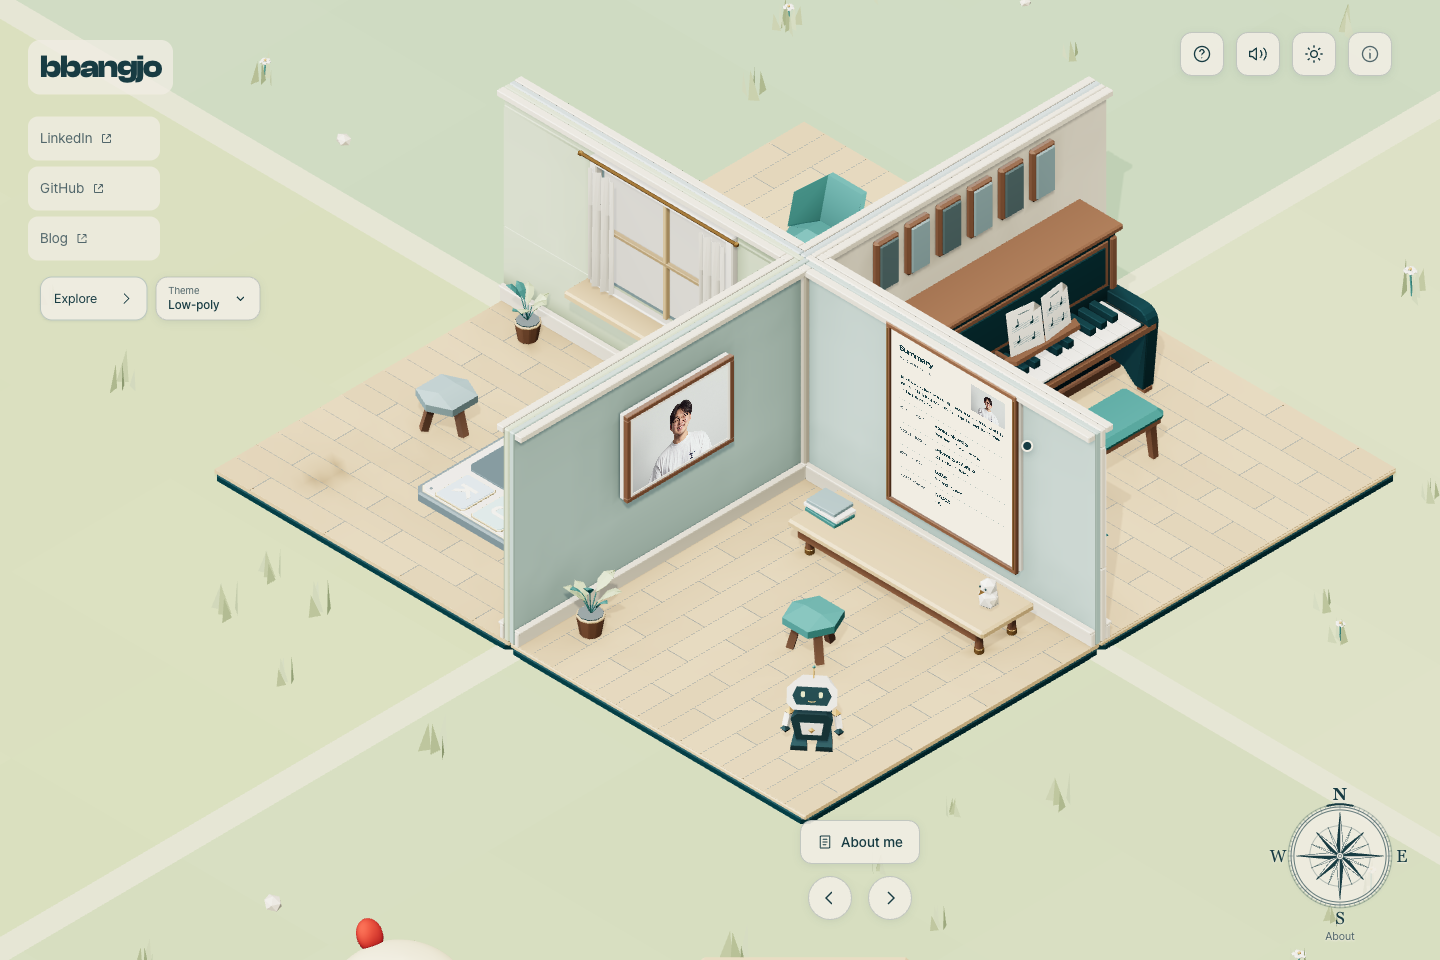
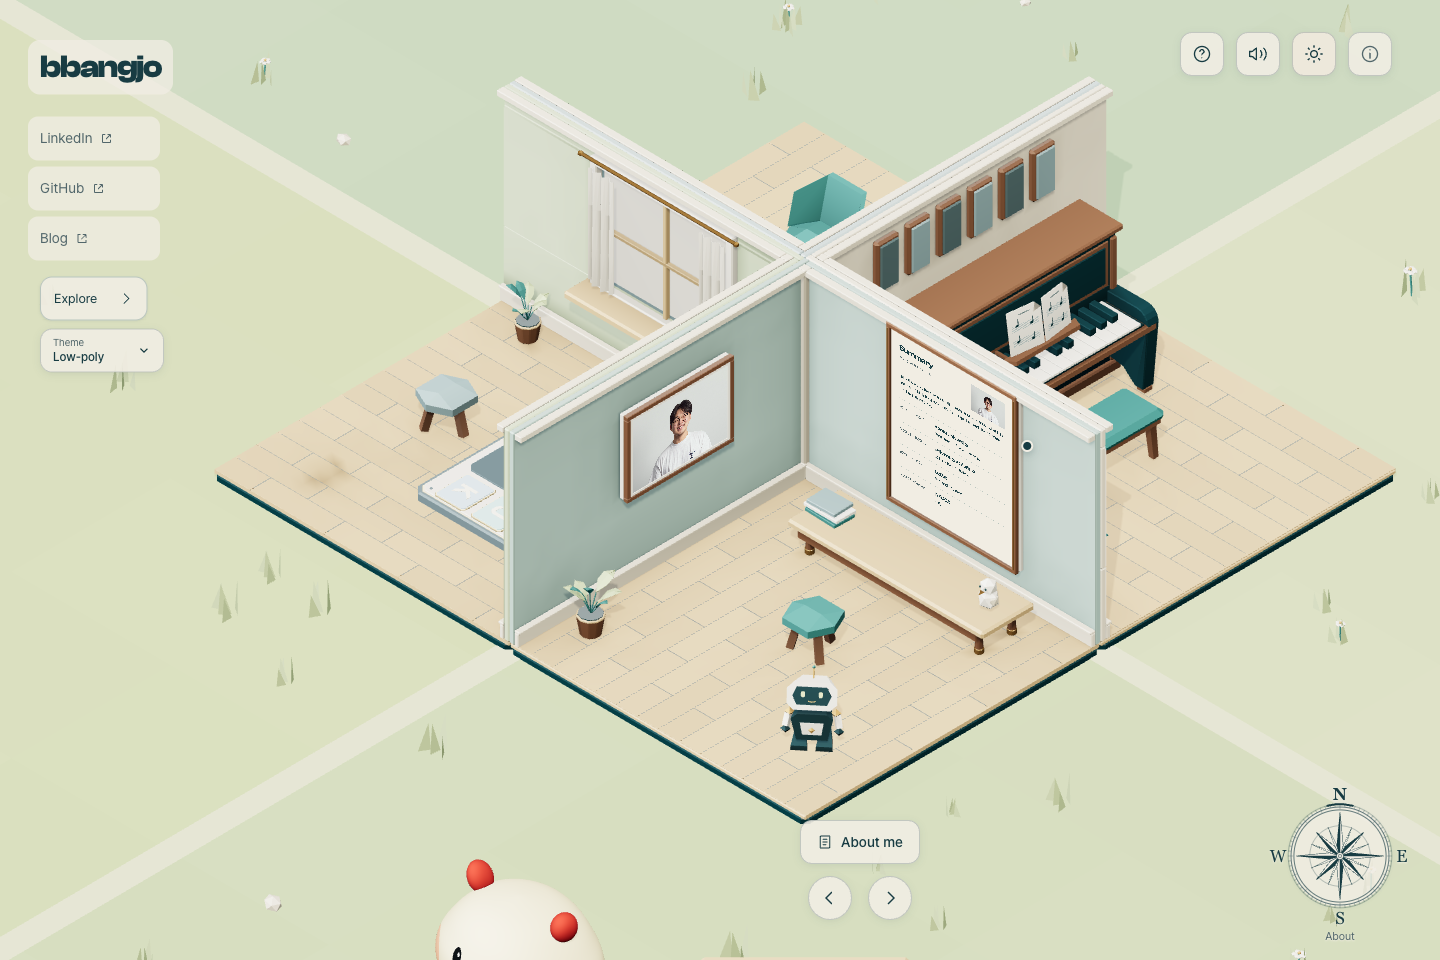
docs: publish two-theme design spec v1.1

Changed region(s): [[0.25, 0.875, 0.4062, 1.0], [0.0312, 0.2812, 0.1875, 0.4062]]

diff --git a/README.md b/README.md
@@ -6,7 +6,7 @@ This project is listed on the [portfolio-ideas](https://github.com/Evavic44/port
 
 ## Description
 
-Hello! This is my little corner of the internet, made with Three.js, TypeScript and Blender. I wanted a place that feels like meeting me: some music, some writing, a bit of travel, and something to play. Four isometric rooms sit on a hand-drawn atlas of warm paper and brown ink, with a robot nearby to show you around.
+Hello! This is my little corner of the internet, made with Three.js, TypeScript and Blender. I wanted a place that feels like meeting me: some music, some writing, a bit of travel, and something to play. Four isometric rooms sit on a hand-drawn atlas of warm paper and brown ink, with a robot nearby to show you around. The Theme menu also brings back the original low-poly rooms and green meadows, independently of day and night.
 
 Sit at the antique organ console, read a few stories, try the four-key rhythm game, or follow the compass and explore the pieces I have played and the places I have been. At night the atlas becomes silver ink beneath the stars. You can leave a message in the guestbook, too.
 
@@ -20,4 +20,4 @@ Inspired by [Henry Heffernan](https://henryheffernan.com) and [Bruno Simon](http
 
 ## Design specification
 
-[Antique Pen-Drawn Atlas · v1.0](design/atlas-ink-world.md) documents the visual direction, palette, room and village layout, responsive controls, day/night behavior, Blender handoff, and acceptance criteria. The specification includes the current web screenshots and village overview.
+[Pen Drawing & Low-poly Themes · v1.1](design/atlas-ink-world.md) documents the visual direction, palette, room and village layout, responsive controls, day/night behavior, Blender handoff, and acceptance criteria. The specification includes the current web screenshots and village overview.
